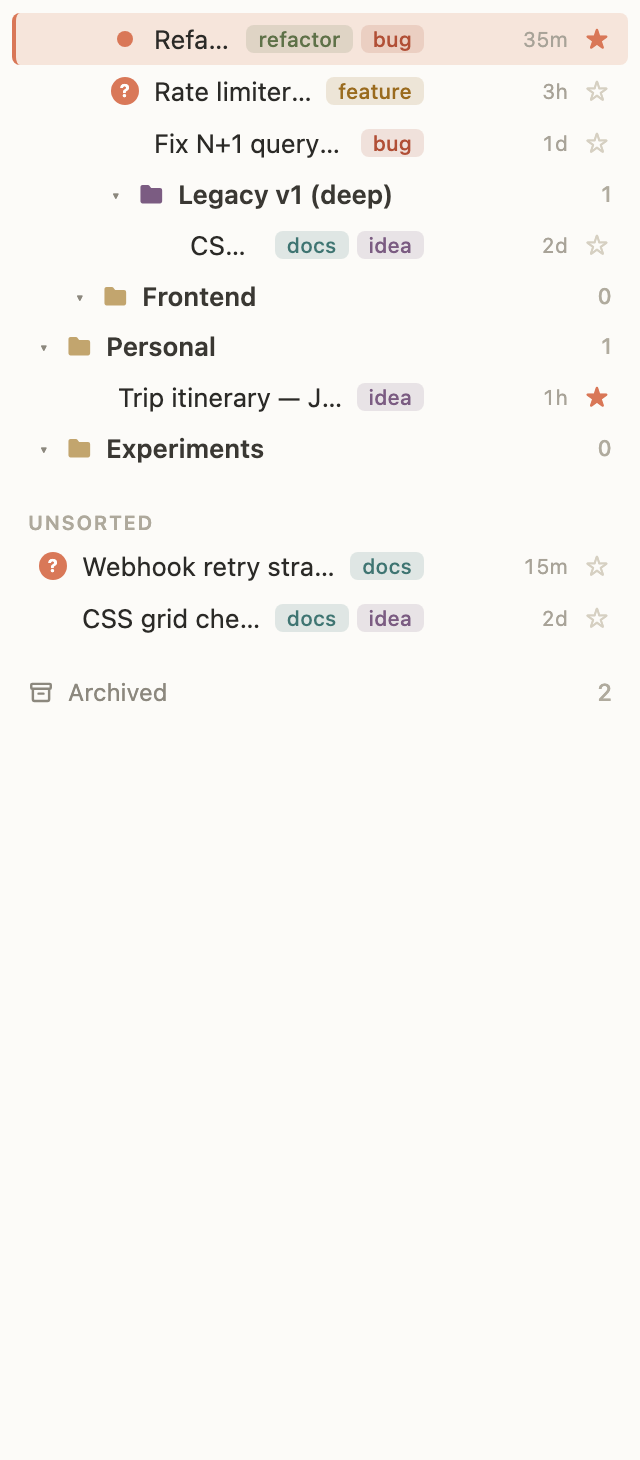
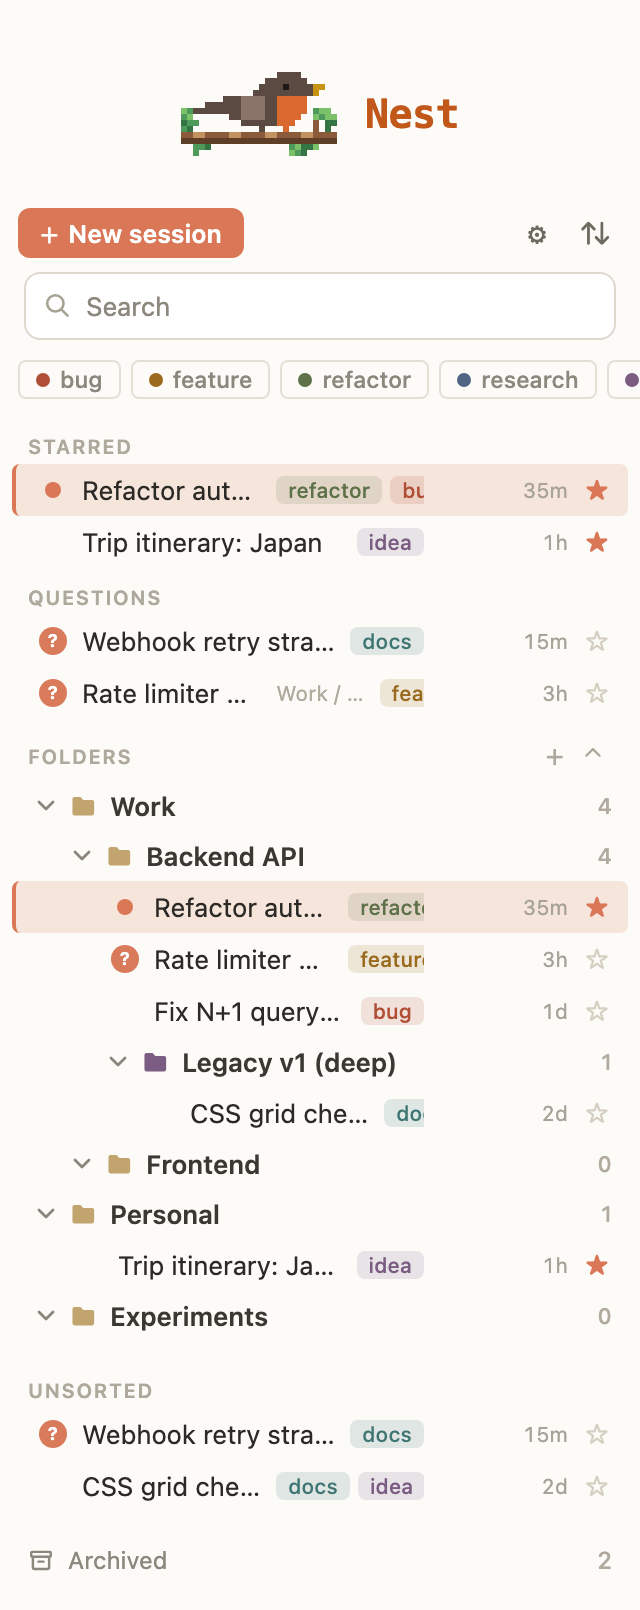
Refresh README screenshots in light and dark

diff --git a/README.md b/README.md
@@ -15,7 +15,7 @@ Organize your Claude Code chat history in VS Code: folders, tags, stars, search 
 <p align="center">
   <picture>
     <source media="(prefers-color-scheme: dark)" srcset="media/readme/panel-dark.png">
-    <img src="media/readme/panel-light.png" alt="The Claude Code Nest panel showing starred chats, questions, folders and unsorted chats" width="320">
+    <img src="media/readme/panel.png" alt="The Claude Code Nest panel showing starred chats, questions, folders and unsorted chats" width="320">
   </picture>
 </p>
 
